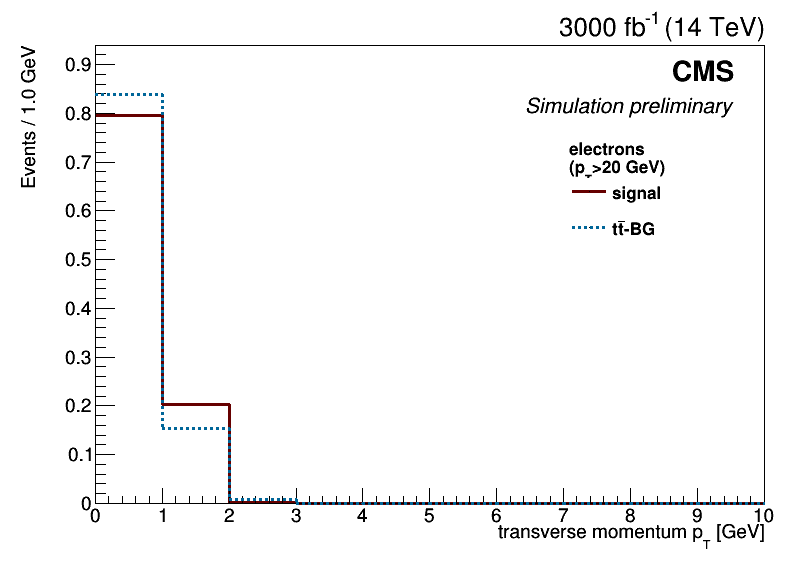
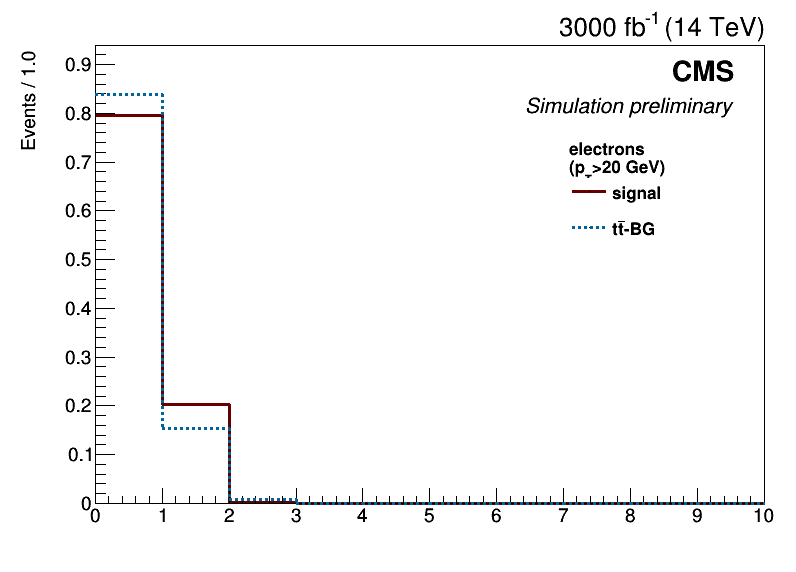
add files

Changed region(s): [[0.603, 0.9213, 0.9648, 0.951], [0.0302, 0.0892, 0.0603, 0.3269]]

diff --git a/python/JetControlPlots.py b/python/JetControlPlots.py
@@ -3,7 +3,7 @@ from ROOT import TLorentzVector
 
 # Requirements:
 # event.jets
-# event.bjets
+# event.bjets30
 # event.met
 
 types = ["jet","bjet"]
@@ -23,14 +23,14 @@ class JetControlPlots(BaseControlPlots):
 
     def beginJob(self):
         
-        self.add("Nuncleanedjets","uncleaned jets multiplicity (Pt>30 GeV)",12,0,12)
-        self.add("Njets","jets multiplicity (Pt>30 GeV)",12,0,12)
-        self.add("Nbjets","b-jets multiplicity (Pt>30 GeV)",8,0,8)
+        self.add("Nuncleanedjets30","uncleaned jets multiplicity (Pt>30 GeV)",12,0,12)
+        self.add("Njets30","jets multiplicity (Pt>30 GeV)",12,0,12)
+        self.add("Nbjets30","b-jets multiplicity (Pt>30 GeV)",8,0,8)
         
         self.add2D("JetiEta","jeti abs(Eta)",14,0,14,20,0,5)
         self.add("NjetsEta3","jets multiplicity (Pt>30 GeV, Eta<3)",12,0,12)
         self.add("NjetsEta25","jets multiplicity (Pt>30 GeV, Eta<2.5)",12,0,12)
-        self.add("NjetsEta2","jets multiplicity (Pt>30 GeV), Eta<2)",12,0,12)
+        self.add("NjetsEta2","jets multiplicity (Pt>30 GeV, Eta<2)",12,0,12)
         
         self.add("MET","MET",100,0,300)
         self.add("METPhi","MET Phi",64,-3.2,3.2)
@@ -52,9 +52,9 @@ class JetControlPlots(BaseControlPlots):
                 for var in vars:
                     result[type+i+var] = [ ]
         
-        jets = [j for j in event.cleanedJets if j.PT>30]
-        result["Nuncleanedjets"]  = len([j for j in event.jets if j.PT>30])
-        result["Njets"]  = len(jets)
+        jets = event.cleanedJets30
+        result["Nuncleanedjets30"]  = len([j for j in event.jets if j.PT>30])
+        result["Njets30"]  = len(jets)
         
         nJetsEta3 = 0 # Eta < 3
         nJetsEta25 = 0 # Eta < 2.5
@@ -101,29 +101,29 @@ class JetControlPlots(BaseControlPlots):
             result["jet4M"].append(event.jets[3].Mass)
 
         # b-jets
-        bjets = event.bjets30
+        bjets30 = event.bjets30
+        result["Nbjets30"] = len(bjets)
     
-        if len(bjets)>0:
-            result["bjet1Pt"].append(bjets[0].PT)
-            result["bjet1Eta"].append(bjets[0].Eta)
-            result["bjet1Phi"].append(bjets[0].Phi)
-            result["bjet1M"].append(bjets[0].Mass)
-        if len(bjets)>1:
-            result["bjet2Pt"].append(bjets[1].PT)
-            result["bjet2Eta"].append(bjets[1].Eta)
-            result["bjet2Phi"].append(bjets[1].Phi)
-            result["bjet2M"].append(bjets[1].Mass)
-        if len(bjets)>2:
-            result["bjet3Pt"].append(bjets[2].PT)
-            result["bjet3Eta"].append(bjets[2].Eta)
-            result["bjet3Phi"].append(bjets[2].Phi)
-            result["bjet3M"].append(bjets[2].Mass)
-        if len(bjets)>3:
-            result["bjet4Pt"].append(bjets[3].PT)
-            result["bjet4Eta"].append(bjets[3].Eta)
-            result["bjet4Phi"].append(bjets[3].Phi)
-            result["bjet4M"].append(bjets[3].Mass)
-        result["Nbjets"] = len([bj for bj in bjets if bj.PT>30])
+        if len(bjets30)>0:
+            result["bjet1Pt"].append(bjets30[0].PT)
+            result["bjet1Eta"].append(bjets30[0].Eta)
+            result["bjet1Phi"].append(bjets30[0].Phi)
+            result["bjet1M"].append(bjets30[0].Mass)
+        if len(bjets30)>1:
+            result["bjet2Pt"].append(bjets30[1].PT)
+            result["bjet2Eta"].append(bjets30[1].Eta)
+            result["bjet2Phi"].append(bjets30[1].Phi)
+            result["bjet2M"].append(bjets30[1].Mass)
+        if len(bjets30)>2:
+            result["bjet3Pt"].append(bjets30[2].PT)
+            result["bjet3Eta"].append(bjets30[2].Eta)
+            result["bjet3Phi"].append(bjets30[2].Phi)
+            result["bjet3M"].append(bjets30[2].Mass)
+        if len(bjets30)>3:
+            result["bjet4Pt"].append(bjets30[3].PT)
+            result["bjet4Eta"].append(bjets30[3].Eta)
+            result["bjet4Phi"].append(bjets30[3].Phi)
+            result["bjet4M"].append(bjets30[3].Mass)
         
         return result
 

diff --git a/plots/HH_bbWWPlotterTools.py b/plots/HH_bbWWPlotterTools.py
@@ -54,7 +54,7 @@ def makeTitle(hist):
     # replace stuff
     if " Pt" in title:
         title = title.replace(" Pt","") # take away variable
-    elif " Eta" in title:
+    elif " Eta" in title and "Eta<" not in title:
         title = title.replace(" Eta","")
     elif " Mass" in title:
         title = title.replace(" Mass","")
@@ -81,7 +81,7 @@ def makeTitle(hist):
             # vars
             if "Pt" in title:
                 title = title.replace("Pt","p_{T}")
-            elif "Eta" in title:
+            if "Eta" in title:
                 title = title.replace("Eta","#eta")
             elif "Phi" in title:
                 title = title.replace("Phi","#phi")
@@ -99,7 +99,7 @@ def makeTitle(hist):
             title = title.replace("H","H #rightarrow ")
     elif "W" in title:
         if title.index("W")+1-len(title): # not W at the end!
-            if title[title.index("W")+1] not in ["'", " ", "W"]:
+            if title[title.index("W")+1] not in ["'", " ", "W", "}"]:
                 title = title.replace("W","W #rightarrow ")
     title = title.replace("nu","#nu")
 
@@ -114,7 +114,7 @@ def makeEntryName1(hist):
     # replace stuff
     if " Pt" in title:
         title = title.replace(" Pt","") # take away variable
-    elif " Eta" in title:
+    elif " Eta" in title and "Eta<" not in title:
         title = title.replace(" Eta","")
     elif " Mass" in title:
         title = title.replace(" Mass","")
@@ -164,7 +164,7 @@ def makeEntryName2(hist,tt=False):
     elif " Pt" in title:
         title = title[title.index("Pt")+3:] # take away process, variable and space
 #        title = title.replace(" Pt","") # take away variable
-    elif " Eta" in title:
+    elif " Eta" in title and "Eta<" not in title:
         title = title[title.index("Eta")+4:]
     elif " Phi" in title:
         title = title[title.index("Phi")+4:]
@@ -172,6 +172,7 @@ def makeEntryName2(hist,tt=False):
         title = title[title.index("Mass")+5:]
     elif " multiplicity" in title:
         title = title[title.index("multiplicity")+13:]
+
     if "Pt" in title:
         title = title.replace("Pt","p_{T}")
     elif "Eta" in title:
@@ -225,7 +226,7 @@ def makeLegend(*hists, **kwargs):
             for hist in hists:
                 legend.AddEntry(hist,makeEntryName2(hist))
         else:
-            for i in len(hists):
+            for i in range(len(hists)):
                 legend.AddEntry(hists[i],entries[i])
 
     return legend
@@ -246,27 +247,27 @@ def makeAxes(*hists, **kwargs):
         ylabel = "Events / %s " % hist0.GetXaxis().GetBinWidth(0)
         if name in ["N", "multiplicity"]:
             hist0.GetXaxis().SetTitle("multiplicity")
-        elif "Pt" in name:
+        elif " Pt" in name:
             hist0.GetXaxis().SetTitle("transverse momentum p_{T} [GeV]")
             ylabel += "GeV"
-        elif "Eta" in name:
+        elif " Eta" in name and " Eta<" not in name:
             hist0.GetXaxis().SetTitle("pseudorapidity #eta")
-        elif "Phi" in name:
+        elif " Phi" in name:
             hist0.GetXaxis().SetTitle("azimuthal angle #phi [rad]")
             ylabel += "rad"
-        elif "Mass" in name:
+        elif " Mass" in name:
             if "vs." in name:
                 hist0.GetXaxis().SetTitle("W #rightarrow l#nu mass [GeV]")
                 ylabel = "W #rightarrow qq mass [GeV]"
             else:
                 hist0.GetXaxis().SetTitle("invariant mass M [GeV]")
                 ylabel += "GeV"
-        elif "MET" in name:
+        elif " MET" in name:
             hist0.GetXaxis().SetTitle("MET [GeV]")
             ylabel += "GeV"
-        elif "PID" in name:
+        elif " PID" in name:
             hist0.GetXaxis().SetTitle("PID")
-        elif "Mt" in name:
+        elif " Mt" in name:
             hist0.GetXaxis().SetTitle("transverse mass M_{T} [GeV]")
             ylabel += "GeV"
         else: print "Warning: no x-axis label!"

diff --git a/plots/HH_bbWW_ttPlotter.py b/plots/HH_bbWW_ttPlotter.py
@@ -25,25 +25,28 @@ def plotBasic(stage):
 
     names = [ ]
 
-    for particle in ["b1","b2","q","nu","l","e","mu"]:
-        for var in ["Pt","Eta","M"]:
-            names.append("gen/"+particle+var)
+#    for particle in ["b1","b2","q","nu","l","e","mu"]:
+#        for var in ["Pt","Eta","M"]:
+#            names.append("gen/"+particle+var)
+#
+#    for particle in ["NVirtualWs","NLeptons","NElectrons","NMuons","NTaus",
+#                     "NWlnu","WDPID","tDPID"]: #NWjj
+#        names.append("gen/"+particle)
+#
+#    for jet in ["jet","bjet"]:
+#        for var in ["Pt","Eta","M"]:
+#            for i in ["1","2","3","4"]:
+#                names.append("jets/"+jet+i+var)
+#
+#    for jet in ["Njets","Nbjets"]:
+#        names.append("jets/"+jet)
 
-    for particle in ["NVirtualWs","NLeptons","NElectrons","NMuons","NTaus",
-                     "NWlnu","WDPID","tDPID"]: #NWjj
-        names.append("gen/"+particle)
-
-    for jet in ["jet","bjet"]:
-        for var in ["Pt","Eta","M"]:
-            for i in ["1","2","3","4"]:
-                names.append("jets/"+jet+i+var)
-
-    for jet in ["Njets","Nbjets"]:
-        names.append("jets/"+jet)
-        
-    names.append("res/NJetiWMatch")        
+    names.append("res/NJetiWMatch")
     names.append("res/jetWMatchEta")
     names.append("res/jetWUnMatchEta")
+    names.append("jets/NjetsEta3")
+    names.append("jets/NjetsEta25")
+    names.append("jets/NjetsEta2")
 
     for particle in ["NMuons20","NElectrons20","NLeptons20"]:
         names.append("leptons/"+particle)
@@ -273,6 +276,23 @@ def plotExtra(stage):
     c.Close()
 
 
+    # __jetWMatchEta_vs._jetWUnMatchEta___
+    c = makeCanvas()
+    hist = file.Get(stage+"res/jetWMatchEta")
+    hist_un = file.Get(stage+"res/jetWUnMatchEta")
+    hist.Draw()
+    hist_un.Draw("same")
+    makeAxes(hist,hist_un)
+    setLineStyle(hist,hist_un)
+    legend = makeLegend(hist,hist_un,title="jet and q from W",entries=["matched","unmatched"])
+    legend.Draw()
+
+    CMS_lumi.CMS_lumi(c,14,33)
+    
+    c.SaveAs("basic_tt/"+stage+"jetWMatchEta_unscaled.png")
+    c.Close()
+
+
     # __WlnuM vs Wjj__
     c = makeCanvas()
     hist_Wlnu = file_tt.Get(stage+"gen/WlnuM")
@@ -351,10 +371,10 @@ def plotPie(stage):
 def main():
 
     for stage in ["stage_0/","stage_1/","stage_2/","stage_3/","stage_4/"]:
-#        plotBasic(stage)
-        plotOverlay(stage)
+        plotBasic(stage)
+#        plotOverlay(stage)
 #        plot2D(stage)
-#        plotExtra(stage)
+        plotExtra(stage)
 #        plotPie(stage)
 
     print "\nDone with this, son.\n"
